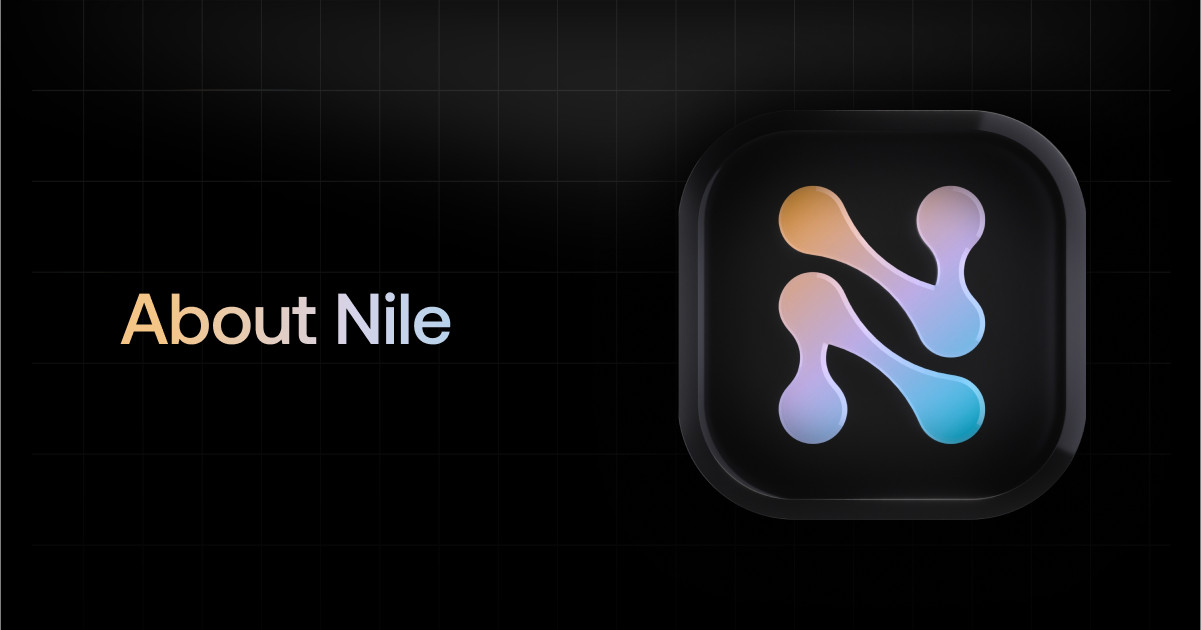
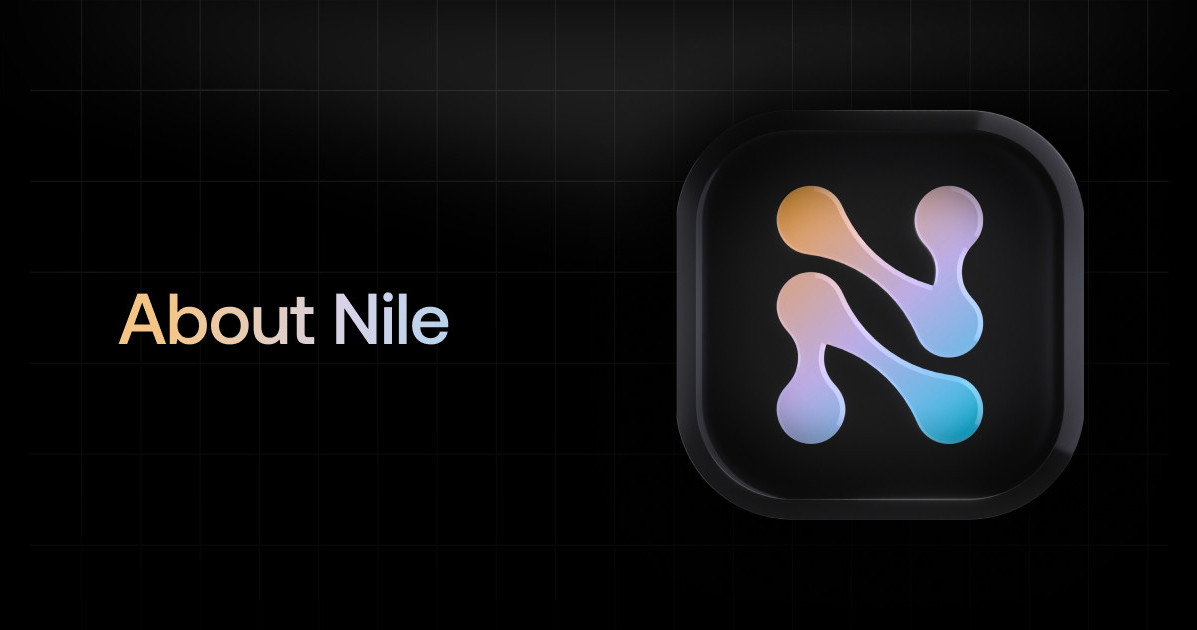
chore: add SEO, clean up images

Changed region(s): [[0.0927, 0.4524, 0.3709, 0.5429], [0.8037, 0.6032, 0.8346, 0.6635], [0.7728, 0.4222, 0.8037, 0.4524]]

diff --git a/www/app/templates/templates.ts b/www/app/templates/templates.ts
@@ -2,7 +2,8 @@ import { Template } from "./types";
 
 export const NextJSQuickstart: Template = {
   name: "NextJS multi-tenant application with Nile",
-  description: "Learn about Nile concepts from a Todo multi-tenant app in NextJS",
+  description:
+    "Learn about Nile concepts from a Todo multi-tenant app in NextJS",
   author: "Nile",
   imageSrc: "/templates/NextJSTodoApp.png",
   demoUrl: "https://nextjs-quickstart-omega.vercel.app/",
@@ -18,7 +19,8 @@ export const NextJSQuickstart: Template = {
 
 export const EmailLogin: Template = {
   name: "Email Login Example for multi-tenant application",
-  description: "Learn about simple Authentication for multi-tenant application with Nile",
+  description:
+    "Learn about simple Authentication for multi-tenant application with Nile",
   author: "Nile",
   imageSrc: "/templates/EmailLogin.png",
   demoUrl: "https://email-authn.vercel.app/",
@@ -34,7 +36,8 @@ export const EmailLogin: Template = {
 
 export const SocialLoginGoogle: Template = {
   name: "Social Login for multi-tenant application with Google",
-  description: "Build social login for multi-tenant application with Google and Nile",
+  description:
+    "Build social login for multi-tenant application with Google and Nile",
   author: "Nile",
   imageSrc: "/templates/GoogleSocialLogin.png",
   demoUrl: "https://niledatabase-google-sso.vercel.app",
@@ -50,7 +53,8 @@ export const SocialLoginGoogle: Template = {
 
 export const OktaSSOLogin: Template = {
   name: "SSO Login for multi-tenant application with Okta",
-  description: "Build multi-tenant application using enterprise SSO login with Okta and Nile",
+  description:
+    "Build multi-tenant application using enterprise SSO login with Okta and Nile",
   author: "Nile",
   imageSrc: "/templates/OktaSSOLogin.png",
   demoUrl: "https://login-okta-demo.vercel.app/",
@@ -68,7 +72,8 @@ export const NodeJSQuickstart: Template = {
   // A great name, preferably unique, name for the template
   name: "NodeJS multi-tenant application with Nile",
   // what the template does
-  description: "Learn about Nile concepts from a Todo multi-tenant app in NodeJS",
+  description:
+    "Learn about Nile concepts from a Todo multi-tenant app in NodeJS",
   // who made it
   author: "Nile",
   // the location of the thumbnail. could be in /public/templates, or a CDN
@@ -112,7 +117,8 @@ export const DrizzleQuickstart: Template = {
   // A great name, preferably unique, name for the template
   name: "Drizzle multi-tenant application with Nile",
   // what the template does
-  description: "Learn about Nile concepts from a Todo multi-tenant app in Drizzle",
+  description:
+    "Learn about Nile concepts from a Todo multi-tenant app in Drizzle",
   // who made it
   author: "Nile",
   demoUrl: "https://nile-drizzle-quickstart.vercel.app/",

diff --git a/www/app/layout.tsx b/www/app/layout.tsx
@@ -2,11 +2,45 @@ import "./globals.css";
 import type { Metadata } from "next";
 
 export const metadata: Metadata = {
-  title: "Nile Database",
-  description: "Serverless Postgres for modern SaaS",
+  title: "Nile Database — Serverless Postgres for modern SaaS",
+  description:
+    "Serverless Postgres build with multi-tenacy at it's core. Fault tolerant, globally distrubted, with user and tenant management built in.",
+  applicationName: "Nile database",
   metadataBase: new URL("https://www.thenile.dev/"),
+  manifest: new URL("https://www.thenile.dev/manifest.json"),
+  keywords: ["serverless", "postgres", "tenant aware", "multi tenant database"],
+  colorScheme: "dark",
+  creator: "Nile database",
+  publisher: "Nile database",
+  icons: [
+    {
+      url: "https://www.thenile.dev/favicon.ico",
+      sizes: "any",
+      rel: "image/x-icon",
+    },
+    {
+      url: "https://www.thenile.dev/apple-icon.png",
+      type: "image/png",
+    },
+    {
+      url: "https://www.thenile.dev/icon.png",
+      type: "image/png",
+    },
+  ],
   openGraph: {
-    images: "/opengraph/nile.jpg",
+    type: "website",
+    url: new URL("https://www.thenile.dev/"),
+    images: "https://www.thenile.dev/opengraph/nile.jpg",
+    title: "Nile Database — Serverless Postgres for modern SaaS",
+    siteName: "Nile Database — Serverless Postgres for modern SaaS",
+    description:
+      "Serverless Postgres build with multi-tenacy at it's core. Fault tolerant, globally distrubted, with user and tenant management built in.",
+  },
+  twitter: {
+    card: "summary_large_image",
+    site: "@niledatabase",
+    creator: "@niledatabase",
+    images: "https://thenile.dev/opengraph/nile.jpg",
   },
 };
 

diff --git a/www/app/sitemap.ts b/www/app/sitemap.ts
@@ -1,0 +1,48 @@
+import { MetadataRoute } from "next";
+
+export default function sitemap(): MetadataRoute.Sitemap {
+  return [
+    {
+      url: "https://www.thenile.dev/",
+      lastModified: new Date(),
+      changeFrequency: "yearly",
+      priority: 1,
+    },
+    {
+      url: "https://www.thenile.dev/about-us",
+      lastModified: new Date(),
+      changeFrequency: "yearly",
+      priority: 0.2,
+    },
+    {
+      url: "https://www.thenile.dev/community",
+      lastModified: new Date(),
+      changeFrequency: "yearly",
+      priority: 0.2,
+    },
+    {
+      url: "https://www.thenile.dev/pricing",
+      lastModified: new Date(),
+      changeFrequency: "yearly",
+      priority: 0.2,
+    },
+    {
+      url: "https://www.thenile.dev/blog",
+      lastModified: new Date(),
+      changeFrequency: "weekly",
+      priority: 0.8,
+    },
+    {
+      url: "https://www.thenile.dev/docs",
+      lastModified: new Date(),
+      changeFrequency: "monthly",
+      priority: 0.5,
+    },
+    {
+      url: "https://www.thenile.dev/templates",
+      lastModified: new Date(),
+      changeFrequency: "monthly",
+      priority: 0.5,
+    },
+  ];
+}

diff --git a/www/app/manifest.ts b/www/app/manifest.ts
@@ -1,0 +1,31 @@
+import { MetadataRoute } from "next";
+
+export default function manifest(): MetadataRoute.Manifest {
+  return {
+    name: "Nile Database — Serverless Postgres for modern SaaS",
+    short_name: "Nile database",
+    description:
+      "Serverless Postgres build with multi-tenacy at it's core. Fault tolerant, globally distrubted, with user and tenant management built in.",
+    start_url: "/",
+    display: "standalone",
+    background_color: "#000",
+    theme_color: "#000",
+    icons: [
+      {
+        src: "/favicon.ico",
+        sizes: "any",
+        type: "image/x-icon",
+      },
+      {
+        src: "/apple-icon.png",
+        sizes: "any",
+        type: "image/png",
+      },
+      {
+        src: "/icon.png",
+        sizes: "any",
+        type: "image/png",
+      },
+    ],
+  };
+}

diff --git a/www/app/page.tsx b/www/app/page.tsx
@@ -9,9 +9,6 @@ import Elastic from "./_components/Elastic";
 import ArtificialIntelligence from "./_components/ArtificialIntelligence";
 import Container from "@/app/_components/common/Container";
 import { HeroBottom } from "@/app/_components/common/Hero";
-import GradientButton from "./_components/common/GradientButton";
-import Link from "next/link";
-import Image from "next/image";
 export default function Home() {
   return (
     <Container>

diff --git a/www/app/docs/tools/[[...slug]]/page.tsx b/www/app/docs/tools/[[...slug]]/page.tsx
@@ -8,10 +8,7 @@ type Props = { params: Param };
 export default async function Page(props: Props) {
   return (
     <Container>
-      <PageContent
-        params={props.params}
-        root={NavigationRoots.Tools}
-      />
+      <PageContent params={props.params} root={NavigationRoots.Tools} />
     </Container>
   );
 }

diff --git a/www/app/docs/_components/SideNavigation/types.ts b/www/app/docs/_components/SideNavigation/types.ts
@@ -18,5 +18,5 @@ export enum NavigationRoots {
   TenantManagement = "tenant-management",
   TenantPlacement = "tenant-placement",
   TenantSharing = "tenant-sharing",
-  Tools = "tools"
+  Tools = "tools",
 }
